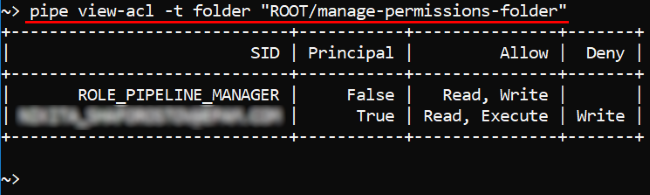
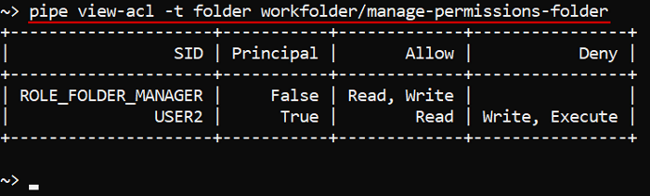
Docs: 'View & manage permissions via CLI' section updated, 'Change owner via CLI' section added

diff --git a/docs/md/manual/14_CLI/14.4._View_and_manage_Permissions_via_CLI.md b/docs/md/manual/14_CLI/14.4._View_and_manage_Permissions_via_CLI.md
@@ -2,7 +2,9 @@
 
 - [View permissions](#view-permissions)
 - [Manage permissions](#manage-permissions)
-    - [Example: set permissions for Folder](#example-set-permissions-for-folder)
+    - [Example: set permissions for a folder](#example-set-permissions-for-a-folder)
+    - [Example: set permissions for a pipeline](#example-set-permissions-for-a-pipeline)
+- [Change `OWNER` property](#change-owner-property)
 
 > Cloud Pipeline CLI has to be installed. See [14. Command-line interface (CLI)](14._Command-line_interface.md).
 
@@ -13,22 +15,30 @@
 Command to list all permissions for a specific object:
 
 ``` bash
-pipe view-acl -t <Object type> <Object id/name>
+pipe view-acl -t|--object-type <Object type> <Object id/name>
 ```
 
 Two parameters are required:
 
-- **Object type** - defines: Pipeline, Folder, Data Storage
-- **Object id** or **name** - define a name of an object of a specified class.  
+- **Object type** - defines a name of the object class. Possible values: `pipeline`, `folder`, `data_storage`.
+- **Object id/name** - defines a name of an object of a specified class.  
     **_Note_**: full path to the object has to be specified.
 
-In the example below we check permissions for a folder "**ROOT/manage-permissions-folder**":
+In the example below we check permissions for the folder "**_workfolder/manage-permissions-folder_**":
 
 ``` bash
-pipe view-acl -t folder "ROOT/manage-permissions-folder"
+pipe view-acl -t folder "workfolder/manage-permissions-folder"
 ```
 
 ![CP_ViewAndManagePermissions](attachments/ManagePermissionsViaCLI_1.png)
+
+To check permissions for the Data Storage with ID **_3976_**:
+
+``` bash
+pipe view-acl --object-type data_storage 3976
+```
+
+![CP_ViewAndManagePermissions](attachments/ManagePermissionsViaCLI_2.png)
 
 ## Manage permissions
 
@@ -37,24 +47,64 @@ pipe view-acl -t folder "ROOT/manage-permissions-folder"
 Command to set permissions for the object:
 
 ``` bash
-pipe set-acl -t <Object type> -s <User/Group name> -a/-d/-i <w>/<x>/<r> <Object id/name>
+pipe set-acl -t|--object-type <Object type> -s|--sid <User/Group name> [-g|--group] -a|--allow/-d|--deny/-i|--inherit <w>/<x>/<r> <Object id/name>
 ```
 
 The following parameters are required:
 
-- **Object type** - defines Pipeline, Folder, Data Storage, Docker registry, Tool.
-- **User** or **Group name** - the name of the user or the group of users to manage their permissions.
-- **Allow(`-a`)**/**Deny(`-d`)**/**Inherit(`-i`)** **WRITE(`w`)**, **READ(`r`)** and **EXECUTE(`x`)** permissions in any combinations. See examples below.
-- **Object id** or **name** - define a name of an object of a specified class to set permissions for.  
-    **_Note_**: full path to the object has to be specified if the name is not unique (the case for **Data Storage**, **Pipeline**).
+- **Object type** - defines a name of the object class. Possible values: `pipeline`, `folder`, `data_storage`.
+- **User** or **Group name** - defines a name of an user or a group (role) for whom permissions will be set.  
+    **_Note_**: the option `-g` (or `--group`) shall be necessarily specified when permissions are being set for a group (role)
+- **Allow** (`-a` or `--allow`), **Deny** (`-d` or `--deny`), **Inherit** (`-i` or `--inherit`) - actions that could be performed with permissions.
+- **WRITE** (`w`), **READ** (`r`) and **EXECUTE** (`x`) - permissions for setting.
+- **Object id** or **name** - defines an ID or name of an object of the specified class to set permissions for.  
+    **_Note_**: full path to the object has to be specified if the name is not unique (in cases for **Data Storage**, **Pipeline**).
 
-### Example: set permissions for Folder
+**_Note_**: permissions and actions over them could be written in command in any combinations. See examples below.
+
+### Example: set permissions for a folder
 
 Here we demonstrate how to set permissions for a **folder**. You can set permissions for other CP objects in the same way.  
-In the example below we grant user **TEST\_USER** **READ** access and deny **WRITE** and **EXECUTE** access to the directory "**new-folder**".
+In the example below we grant the user **_USER3_** **READ** access and deny **WRITE** and **EXECUTE** access to the directory "**_workfolder/manage-permissions-folder_**".
 
 ``` bash
-pipe set-acl -t folder -s TEST_USER -d wx -a r new-folder
+pipe set-acl -t folder -s USER3 -d wx -a r "workfolder/manage-permissions-folder"
 ```
 
-![CP_ViewAndManagePermissions](attachments/ManagePermissionsViaCLI_2.png)
+![CP_ViewAndManagePermissions](attachments/ManagePermissionsViaCLI_3.png)
+
+### Example: set permissions for a pipeline
+
+In the example below we grant the role **_ROLE\_USER_** **READ** and **WRITE** access to the pipeline with ID **_5937_**.
+
+``` bash
+pipe set-acl --object-type pipeline --sid ROLE_USER --group --allow rw 5937
+```
+
+![CP_ViewAndManagePermissions](attachments/ManagePermissionsViaCLI_4.png)
+
+## Change `OWNER` property
+
+Each object has a mandatory **OWNER** property.  
+You can change an owner of the Cloud Pipeline object via CLI. Please note, for do that, you shall be an object **OWNER** or have the **ROLE_ADMIN** role.
+
+> **_Note_**: how to change an object owner via the GUI see [here](../13_Permissions/13._Permissions.md#how-to-change-an-owner).
+
+Command to change an owner of the object:
+
+``` bash
+pipe chown <User name> <Object class> <Object id/name>
+```
+
+Three parameters shall be specified:
+
+1. **User name** - defines a user name of a desired object owner.
+2. **Object class** - defines a name of the object class. Possible values: `data_storage`, `docker_registry`, `folder`, `pipeline`, `tool`, `tool_group`, `configuration`.
+3. **Object id/name** - defines an ID or name of an object of the specified object class.  
+    **_Note_**: full path to the object has to be specified. Paths to Docker registry and Tool objects should include registry IP address.
+
+The example below will change an owner to **_USER3_** for the pipeline with ID **_5937_**:
+
+``` bash
+pipe chown USER3 pipeline 5937
+```

diff --git a/docs/md/manual/14_CLI/14.2._View_and_manage_Attributes_via_CLI.md b/docs/md/manual/14_CLI/14.2._View_and_manage_Attributes_via_CLI.md
@@ -20,7 +20,7 @@ pipe tag get <Object class> <Object id/name>
 Two parameters shall be specified:
 
 - **Object class** - defines a name of the object class. Possible values: `data_storage`, `docker_registry`, `folder`, `metadata_entity`, `pipeline`, `tool`, `tool_group`, `configuration`.
-- **Object id** or **name** - defines an ID or name of an object of a specified class.  
+- **Object id** or **name** - defines an ID or name of an object of the specified object class.  
     **_Note_**: full path to the object has to be specified. Paths to Docker registry and Tool objects should include registry IP address.
 
 The example below lists attributes of the data storage with ID **_3976_**:
@@ -51,7 +51,7 @@ pipe tag set <Object class> <Object id/name> <List of KEY=VALUE>
 Three parameters shall be specified:
 
 1. **Object class** - defines a name of the object class. Possible values: `data_storage`, `docker_registry`, `folder`, `metadata_entity`, `pipeline`, `tool`, `tool_group`, `configuration`.
-2. **Object id/name** -  defines an ID or name of an object of a specified class.  
+2. **Object id/name** - defines an ID or name of an object of the specified object class.  
     **_Note_**: full path to the object has to be specified. Paths to Docker registry and Tool objects should include registry IP address.
 3. **List of KEY=VALUE** - list of tags to set. Can be specified as a single `KEY=VALUE` pair or a list of them.
 
@@ -76,7 +76,7 @@ pipe tag delete <Object class> <Object id/name> <List of KEYs>
 Three parameters shall be specified:
 
 1. **Object class** - defines a name of the object class. Possible values: `data_storage`, `docker_registry`, `folder`, `metadata_entity`, `pipeline`, `tool`, `tool_group`, `configuration`.
-2. **Object id/name** - defines an ID or name of an object of a specified class.  
+2. **Object id/name** - defines an ID or name of an object of the specified object class.  
     **_Note_**: full path to the object has to be specified. Paths to Docker registry and Tool objects should include registry IP address.
 3. **List of KEYs** - list of attribute keys to delete.
 

diff --git a/docs/md/manual/13_Permissions/13._Permissions.md b/docs/md/manual/13_Permissions/13._Permissions.md
@@ -258,6 +258,8 @@ To change an owner of an object:
 6. Click **"Apply"** control and the changes will be saved.  
     ![CP_Permissions](attachments/Permissions_4.png)
 
+Also you can change an owner of an object via `pipe` CLI - see [here](../14_CLI/14.4._View_and_manage_Permissions_via_CLI.md#change-owner-property).
+
 ### Admin role
 
 Admin property can be given by assigning **ROLE\_ADMIN** to a user (about roles see [here](../12_Manage_Settings/12._Manage_Settings.md#roles)). The user gets Read/Write/Execute/Owner permissions to all objects in the system.  
